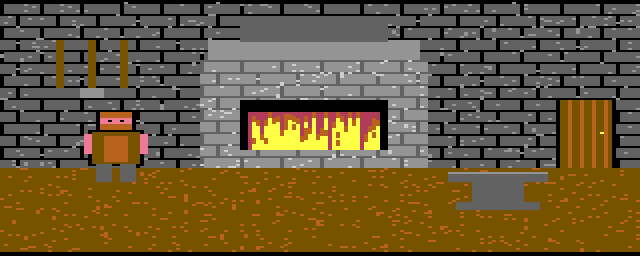
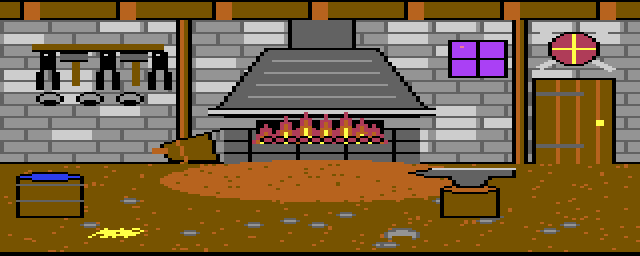
Smit zelf getekend in de plein-stijl, gloeiende kolen en vlammen, Bram als figuur

diff --git a/tools/teken_smit.py b/tools/teken_smit.py
@@ -1,0 +1,196 @@
+#!/usr/bin/env python3
+"""teken_smit.py — de smit van Bram, met de hand getekend als C64-pixelart (zoals het toneel, tools/teken_toneel.py).
+
+    python3 tools/teken_smit.py      schrijft data/plaatjes/smit.png en smit_vuur.png (640 x 256) en build/proef/smit_*.png
+
+Kamerpixels (160 x 128), alleen C64-kleuren, dikke zwarte lijnen: dezelfde sfeer als het plein. Bram zelf staat niet in
+het plaatje: hij is een figuur (sprite, tools/sprites_hc.py 'bram'), zodat hij er als een mens uitziet.
+
+Het smidsvuur: in de koude haard liggen kolen met een paar gloeiende puntjes (rood). FLAKKER in scripts/smit.hcs laat
+rood/oranje/geel in die vakjes rondgaan: de kolen gloeien zacht na, ook als het vuur uit is. smit_vuur.png is dezelfde
+kamer met het vuur aan (de patch vuur_aan: vlammen in rood, oranje en geel, die dan flakkeren).
+De vakjes van het vuur (FLAKKER en patch): x 64-95, y 56-71.
+"""
+import os, random, sys
+
+sys.path.insert(0, os.path.dirname(os.path.abspath(__file__)))
+from teken_toneel import (Doek, rgb, te_veel_kleuren, ZWART, WIT, ROOD, CYAAN, PAARS, GROEN, BLAUW, GEEL,   # noqa: E402
+                          ORANJE, BRUIN, ROZE, DGRIJS, GRIJS, LGROEN, LBLAUW, LGRIJS, B, H)
+
+WORTEL = os.path.dirname(os.path.dirname(os.path.abspath(__file__)))
+
+
+def balken(dk):
+    dk.rect(0, 1, B - 1, 9, BRUIN)
+    dk.lijn([(0, 9), (B - 1, 9)], ZWART)
+    for x in range(6, B, 24):
+        dk.rect(x, 1, x + 3, 9, ORANJE)
+        dk.lijn([(x - 1, 1), (x - 1, 9)], ZWART)
+
+
+def muur(dk, rnd):
+    dk.rect(0, 10, B - 1, 81, GRIJS)
+    for i, y in enumerate(range(10, 82, 6)):                    # stenen in verband
+        dk.lijn([(0, y), (B - 1, y)], DGRIJS)
+        for x in range(i % 2 * 6, B, 12):
+            dk.lijn([(x, y), (x, y + 5)], DGRIJS)
+    for _ in range(60):                                          # wat lichtere stenen
+        x, y = rnd.randrange(0, B - 10, 12) + 1, rnd.randrange(10, 76, 6) + 1
+        dk.rect(x, y, x + 9, y + 4, LGRIJS)
+    dk.lijn([(0, 81), (B - 1, 81)], ZWART)
+
+
+def smidsvuur(dk, rnd, aan):
+    # de schoorsteen en de kap
+    dk.rect(72, 10, 88, 24, DGRIJS)
+    dk.lijn([(72, 10), (72, 24)], ZWART)
+    dk.lijn([(88, 10), (88, 24)], ZWART)
+    dk.poly([(66, 24), (94, 24), (106, 54), (54, 54)], DGRIJS)
+    for y in range(30, 54, 6):
+        dk.lijn([(60 + (54 - y) // 3, y), (100 - (54 - y) // 3, y)], GRIJS)
+    dk.rect(52, 54, 108, 57, LGRIJS)                             # de rand van de kap
+    dk.lijn([(52, 54), (108, 54)], ZWART)
+    dk.lijn([(52, 57), (108, 57)], ZWART)
+    # de stenen voet met de haard
+    dk.rect(56, 58, 104, 81, DGRIJS)
+    for y in (64, 70, 76):
+        dk.lijn([(56, y), (104, y)], ZWART)
+    for x in (62, 74, 86, 98):
+        dk.lijn([(x, 58), (x, 81)], ZWART)
+    dk.rect(56, 58, 104, 63, GRIJS)                              # de bovenrand van de voet
+    dk.lijn([(56, 58), (104, 58)], ZWART)
+    dk.rect(64, 60, 95, 71, ZWART)                               # de haard: hier liggen de kolen
+    if aan:
+        # vlammentongen: rood buiten, oranje, een gele kern; ze reiken tot in de kap (rij 56)
+        for x0, top in ((66, 62), (71, 58), (76, 56), (81, 57), (86, 56), (90, 59), (93, 62)):
+            dk.poly([(x0 - 3, 71), (x0, top), (x0 + 3, 71)], ROOD, ROOD)
+            dk.poly([(x0 - 2, 71), (x0, top + 4), (x0 + 2, 71)], ORANJE, ORANJE)
+            dk.poly([(x0 - 1, 71), (x0, top + 8), (x0 + 1, 71)], GEEL, GEEL)
+        for x in range(65, 95, 3):
+            dk.ovaal(x, 68, x + 3, 71, ROOD, ZWART)
+    else:
+        for x in range(65, 95, 3):                               # de kolen: zwart met een paar gloeiende puntjes
+            dk.ovaal(x, 66, x + 3, 70, DGRIJS, ZWART)
+        for _ in range(14):
+            dk.px(rnd.randint(66, 93), rnd.randint(66, 70), ROOD)
+        for _ in range(4):
+            dk.px(rnd.randint(68, 91), rnd.randint(67, 70), ORANJE)
+
+
+def palen_en_wapens(dk):
+    for x in (44, 128):                                          # houten palen tegen de muur
+        dk.rect(x, 10, x + 3, 81, BRUIN)
+        dk.lijn([(x, 10), (x, 81)], ZWART)
+        dk.lijn([(x + 3, 10), (x + 3, 81)], ZWART)
+        dk.lijn([(x + 1, 10), (x + 1, 81)], ORANJE)
+    # een schild en twee gekruiste zwaarden boven de deur: Brams werk
+    dk.lijn([(134, 14), (152, 34)], LGRIJS, 2)
+    dk.lijn([(152, 14), (134, 34)], LGRIJS, 2)
+    dk.ovaal(137, 16, 149, 32, ROOD)
+    dk.lijn([(143, 17), (143, 31)], GEEL)
+    dk.lijn([(138, 24), (148, 24)], GEEL)
+
+
+def blaasbalg(dk):
+    dk.poly([(40, 72), (52, 66), (54, 80), (42, 80)], BRUIN)
+    dk.lijn([(44, 70), (46, 80)], ORANJE)
+    dk.lijn([(52, 66), (56, 64)], ZWART)                         # het mondstuk naar het vuur
+    dk.rect(38, 74, 41, 76, ORANJE)                              # het handvat
+
+
+def gereedschap(dk):
+    dk.rect(8, 22, 40, 24, BRUIN)                                # de plank met haken
+    dk.lijn([(8, 25), (40, 25)], ZWART)
+    for x, soort in ((11, "tang"), (18, "hamer"), (26, "tang"), (33, "hamer"), (39, "tang")):
+        if soort == "hamer":
+            dk.lijn([(x, 26), (x, 42)], BRUIN, 2)
+            dk.rect(x - 3, 26, x + 3, 30, DGRIJS)
+            dk.lijn([(x - 3, 26), (x + 3, 26)], ZWART)
+            dk.lijn([(x - 3, 30), (x + 3, 30)], ZWART)
+        else:
+            dk.lijn([(x - 1, 26), (x - 2, 44)], ZWART, 2)
+            dk.lijn([(x + 1, 26), (x + 2, 44)], ZWART, 2)
+            dk.px(x, 27, LGRIJS)
+    for x in (12, 22, 32):                                       # hoefijzers
+        dk.ovaal(x - 3, 46, x + 3, 52, ZWART, ZWART)
+        dk.ovaal(x - 2, 47, x + 2, 51, GRIJS, GRIJS)
+        dk.rect(x - 1, 50, x + 1, 52, ZWART)
+
+
+def raam_en_deur(dk):
+    dk.rect(112, 20, 126, 38, ZWART)
+    dk.rect(113, 21, 125, 37, PAARS)
+    dk.lijn([(119, 21), (119, 37)], ZWART)
+    dk.lijn([(113, 29), (125, 29)], ZWART)
+    dk.px(115, 23, ROZE)                                         # een ster in de schemer
+    dk.rect(133, 39, 153, 81, ZWART)                             # de deur naar het plein
+    dk.rect(134, 40, 152, 81, BRUIN)
+    for x in (139, 144, 149):
+        dk.lijn([(x, 40), (x, 81)], ORANJE)
+    for y in (46, 72):
+        dk.rect(134, y, 145, y + 1, DGRIJS)                      # scharnieren
+    dk.rect(149, 60, 150, 62, GEEL)                              # de klink
+
+
+def vloer(dk, rnd):
+    dk.rect(0, 82, B - 1, 125, BRUIN)
+    dk.ovaal(40, 80, 120, 100, ORANJE, ORANJE)                  # warm licht van het smidsvuur op de vloer
+    for _ in range(260):
+        x, y = rnd.randint(0, B - 1), rnd.randint(82, 125)
+        dk.px(x, y, ORANJE if dk.im.getpixel((x, y)) == BRUIN else BRUIN)
+    for _ in range(14):                                          # stenen in de aarde
+        x, y = rnd.randint(4, 154), rnd.randint(98, 122)
+        dk.ovaal(x, y, x + 4, y + 2, GRIJS, DGRIJS)            # (geen zwarte rand: je loopt eroverheen)
+    for i in range(10):                                          # stro bij het watervat
+        dk.lijn([(22 + i, 118 - i % 3), (26 + i, 114 + i % 4)], GEEL)
+    dk.ovaal(96, 114, 104, 120, DGRIJS, DGRIJS)                  # een hoefijzer op de vloer
+    dk.ovaal(97, 115, 103, 119, GRIJS, GRIJS)
+    dk.rect(98, 118, 102, 120, BRUIN)
+
+
+def aambeeld_en_vat(dk):
+    dk.rect(110, 94, 124, 108, BRUIN)                            # de boomstronk
+    dk.lijn([(110, 94), (110, 108)], ZWART)
+    dk.lijn([(124, 94), (124, 108)], ZWART)
+    dk.lijn([(110, 108), (124, 108)], ZWART)
+    dk.ovaal(110, 92, 124, 96, ORANJE)
+    dk.poly([(102, 86), (108, 84), (128, 84), (128, 88), (122, 88), (120, 93), (114, 93), (112, 88), (106, 88)], DGRIJS)
+    dk.lijn([(108, 84), (128, 84)], LGRIJS)
+    # het watervat vooraan links
+    dk.rect(4, 88, 20, 108, BRUIN)
+    dk.lijn([(4, 88), (4, 108)], ZWART)
+    dk.lijn([(20, 88), (20, 108)], ZWART)
+    dk.lijn([(4, 108), (20, 108)], ZWART)
+    for y in (92, 100):
+        dk.lijn([(4, y), (20, y)], DGRIJS)
+    dk.ovaal(4, 86, 20, 90, BLAUW)
+
+
+def teken(aan=False):
+    rnd = random.Random(9)
+    dk = Doek()
+    balken(dk)
+    muur(dk, rnd)
+    palen_en_wapens(dk)
+    gereedschap(dk)
+    raam_en_deur(dk)
+    smidsvuur(dk, random.Random(3), aan)
+    blaasbalg(dk)
+    vloer(dk, rnd)
+    aambeeld_en_vat(dk)
+    dk.rect(0, 0, B - 1, 0, ZWART)
+    dk.rect(0, 126, B - 1, 127, ZWART)
+    return dk.im
+
+
+def main():
+    os.makedirs(os.path.join(WORTEL, "build", "proef"), exist_ok=True)
+    for naam, aan in (("smit", False), ("smit_vuur", True)):
+        im = teken(aan)
+        rgb(im).save(os.path.join(WORTEL, "data", "plaatjes", naam + ".png"))
+        rgb(im, 8, 4).save(os.path.join(WORTEL, "build", "proef", naam + "_groot.png"))
+        print("[smit] data/plaatjes/%s.png; vakjes met meer dan 3 kleuren + zwart: %d" % (naam, te_veel_kleuren(im)))
+
+
+if __name__ == "__main__":
+    main()

diff --git a/tools/vicetest.py b/tools/vicetest.py
@@ -122,6 +122,12 @@ def lees_band(pad):
                 if data:
                     raise Fout("%s:%d: intro moet de eerste stap zijn" % (pad, nr))
                 data += bytes([OP_INTRO])
+            elif cmd == "verwacht_slot":
+                d = arg.split()                          # slot figuur   (de figuur bij naam: tools/scriptc.py-volgorde)
+                if len(d) != 2 or d[0] not in ("0", "1"):
+                    raise ValueError
+                namen.append(("SLOT", int(d[0]), d[1]))
+                data += bytes([OP_MARKEER, len(namen)])
             elif cmd == "verwacht_logo" and not arg:
                 namen.append(("LOGO", None))
                 data += bytes([OP_MARKEER, len(namen)])
@@ -536,6 +542,12 @@ def controleer(vice, sym, regel, spel=None):
             rij, kol, KLEURNAMEN[oud], n, KLEURNAMEN[verwacht], "" if ok else "  (is %s)" % KLEURNAMEN[nu])
     if regel[0] == "MUZIEK":
         return muziek_klopt(vice, sym)
+    if regel[0] == "SLOT":
+        _, slot, naam = regel
+        figuren = spel["figuren"]
+        echt = vice.lees(sym["slot_npc"] + slot)[0]
+        echt_n = figuren[echt] if echt < len(figuren) else ("geen" if echt == 255 else str(echt))
+        return echt_n == naam, "figuurslot %d = %s%s" % (slot, naam, "" if echt_n == naam else "  (is %s)" % echt_n)
     if regel[0] == "LOGO":
         # de kleurenloop: elke logokolom k heeft kleur logo_kleuren[(k + intro_kleur) & 15], in alle 3 de rijen
         stap = vice.lees(sym["intro_kleur"])[0]
@@ -604,7 +616,7 @@ def draai(bandpad, args):
                 raise Fout("%s: onbekende %s %s" % (bandpad, "vlag" if soort == "vlaggen" else "voorwerp", m[1]))
     for _, label, *_ in verwacht + [m for m in shots if isinstance(m, tuple) and m[0] not in
                                      ("TEKST", "VERWACHT_VLAG", "VERWACHT_EIGENAAR", "VERWACHT_STAND", "VERWACHT_KAMER",
-                                      "ONTHOUD_KLEUR", "VERWACHT_KLEUR_VOLGEND", "MUZIEK", "LOGO")]:
+                                      "ONTHOUD_KLEUR", "VERWACHT_KLEUR_VOLGEND", "MUZIEK", "LOGO", "SLOT")]:
         if label not in sym:
             raise Fout("%s: onbekend label %s" % (verwachtpad, label))
     controles = [m for m in shots if isinstance(m, tuple)]

diff --git a/tools/sprites_hc.py b/tools/sprites_hc.py
@@ -339,6 +339,46 @@ king = sym(check([
     "...k.k",
 ], 6))
 
+# ---------------------------------------------------------------- Bram de smit: breed, rode baard, blote armen, leren schort
+bram = sym(check([
+    "......",
+    "...kkk",   # 1 haar
+    "..kccc",
+    ".kcccc",
+    ".kssss",   # 4 voorhoofd
+    ".kssks",   # 5 ogen
+    ".kssss",
+    ".kcssc",   # 7 de baard begint
+    ".kcccc",
+    "..kccc",
+    "...kcc",   # 10 baardpunt
+    ".kkkcc",   # 11 brede schouders
+    "kssccc",
+    "kssccc",   # 13 blote armen
+    "kssccc",
+    "ksskcc",
+    "ksskcc",
+    "ksskcc",
+    "kss.kc",
+    "kkk.kc",   # 19 vuisten
+    "....kc",
+    "...kcc",   # 21 het leren schort (onderste sprite: bruin)
+    "..kccc",
+    "..kccc",
+    "..kccc",
+    "..kccc",
+    "..kccc",
+    "..kkkk",
+    "...kck",   # 28 benen
+    "...kck",
+    "...kck",
+    "...kck",
+    "..kkck",
+    ".kkkkk",   # 33 laarzen
+], 6))
+bram = put(bram, [(20, 9, "k"), (20, 10, "k"), (20, 11, "k"), (21, 9, "k"), (21, 10, "k"), (21, 11, "k"),
+                  (22, 10, "k"), (22, 11, "k")])   # de hamerkop onder zijn rechtervuist
+
 # ---------------------------------------------------------------- een maan (verhaalanimatie): een schijf die voor de zon schuift
 maan = pad(sym(check([
     "....kk",
@@ -467,6 +507,7 @@ CHARS = [
     ("king",  king,  7, 11),
     ("spook", ghost, 15, 12),
     ("maan",  maan,  12, 12),
+    ("bram",  bram,  8, 9),          # boven oranje (baard, haar, hemd), onder bruin (schort)
     ("vex_kroon", vex_kroon, 7, 11),      # boven goud (kroon en schouders), onder donkergrijs
     ("hol",   hol,   11, 11),
 ]

diff --git a/tools/costume.py b/tools/costume.py
@@ -25,7 +25,7 @@ sys.path.insert(0, os.path.dirname(os.path.abspath(__file__)))
 import sprites_hc as hc   # noqa: E402
 
 RICHTINGEN = ["voor", "rug", "rechts", "links"]
-NPCS = [("mira", 0), ("vex", 0), ("wolf", 1), ("maan", 0), ("hol", 0), ("vex_kroon", 0)]          # (naam, vorm) — zie hieronder
+NPCS = [("mira", 0), ("vex", 0), ("wolf", 1), ("maan", 0), ("hol", 0), ("vex_kroon", 0), ("bram", 0)]          # (naam, vorm) — zie hieronder
 # hoogte van de figuur per maat, in pixelrijen (de grootste = de tekening zelf). Afgemeten aan de deuren van
 # het plein: achteraan ~14-16 hoog, de smidse ~20, de herberg ~26 (zie docs/LOGBOEK.md).
 MATEN = [None, 26, 20, 14, 10]   # 10: helemaal bovenaan het dorp

diff --git a/docs/LOGBOEK.md b/docs/LOGBOEK.md
@@ -606,3 +606,17 @@ rij 18 blijft leeg.
   uitstak), en een pad de heuvel af.
 - Vex was moeilijk te zien voor het grijze kasteel: nu komt hij na een flits uit de poort en loopt de heuvel af tot hij
   tegen het groene gras staat, met de Lichte Kroon (eigen kostuum vex_kroon: boven goud, onder donkergrijs).
+
+## 2026-11-13 — De smit opnieuw: zelf getekend, Bram als figuur
+
+- `tools/teken_smit.py`: de smit met de hand getekend als C64-pixelart, in de sfeer van het plein: stenen smidsvuur met
+  kap en schoorsteen, blaasbalg, gereedschap en hoefijzers aan de muur, houten palen, een schild met twee zwaarden,
+  raampje met schemer, deur, aambeeld op een boomstronk, watervat, warm licht van het vuur op de aarden vloer. Ook
+  smit_vuur.png (vlammentongen) voor de patch vuur_aan (64,56,32,16).
+- In de koude haard gloeien een paar kolen (rood/oranje): FLAKKER laat ze zacht nagloeien; aan flakkeren de vlammen.
+- Bram is geen deel van het plaatje meer (dat leek een stoel) maar een figuur: rode baard, blote armen, leren schort,
+  hamer (tools/sprites_hc.py bram). Nieuwe voorwerpen: blaasbalg, gereedschap, schild.
+- vicetest: `verwacht_slot 0 bram` (de figuur bij naam, niet bij nummer: nummers verschuiven als er figuren bijkomen).
+- LOOPKLEUREN smit: ook geel, grijs, donkergrijs (stro, steentjes, een hoefijzer op de vloer: je loopt eroverheen).
+
+**Getest:** de oplossingsband maakt nu screenshots in de smit (koud en met vuur), pixel voor pixel met Bram. 23/23, 14/14.
